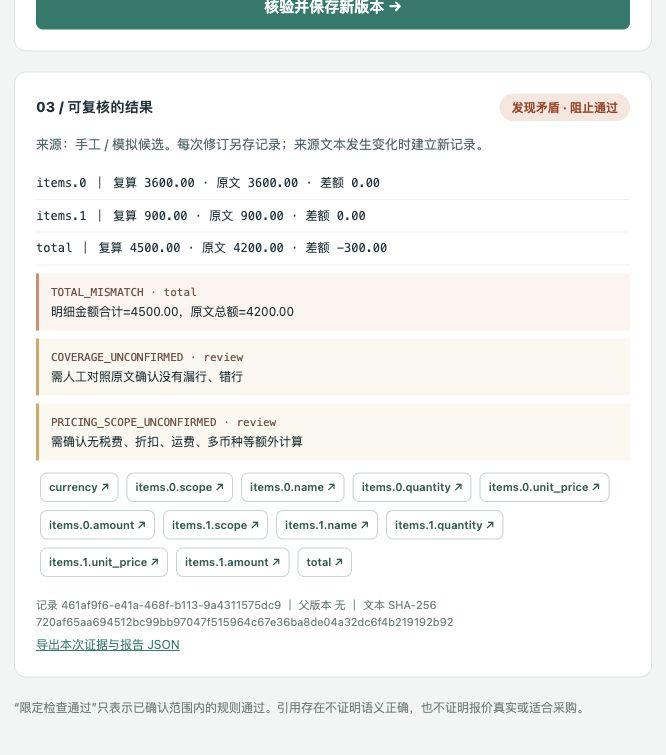
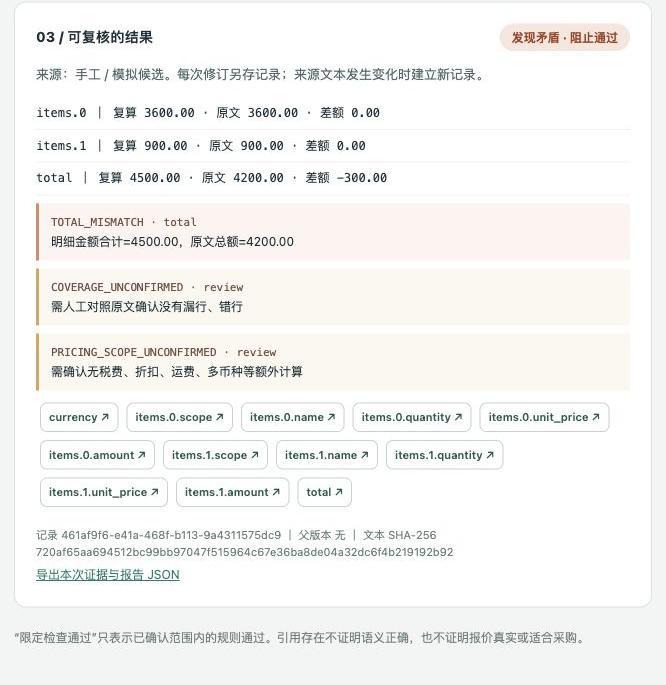
docs: record clean clone and wheel installation checks

diff --git a/docs/validation.md b/docs/validation.md
@@ -56,3 +56,11 @@
 ## 独立复现入口
 
 安装后先运行 `python -m pytest -q` 和 `python scripts/evaluate.py`，再打开本地页面的三个场景。若验证真实AI，按operations.md启动本地模型、指定正确端口，再运行live_smoke；每次输出可能不同，逐字段对照原文。下载JSON后用replay复算。先读本机结果与限制，再决定可以在简历中写哪些个人已验收的能力。
+
+## 干净克隆与软件包补充验证
+
+对本地提交 `0971a1b` 执行 `git clone --no-local . .local/clone-check`，另建全新venv，安装该克隆的`.[dev]`：**55 passed / 1 warning**，8/8合成规则结果符合预期，wheel/sdist实际构建成功。随后在该新环境卸载editable安装、安装构建的wheel，并从克隆目录之外导入，确认模块来自site-packages；内置HTML/JS、demo读取和API创建待复核记录均通过。
+
+这是**本地干净克隆和安装验收**，不是GitHub公开clone或Windows验收。后续改动仅为验证记录和演示截图裁切；运行代码对应上述提交及之前代码提交。临时测试环境和原始日志留在被忽略的`.local`。
+
+Docker测试项目`linescope-review`验证结束后已停止其app容器，保留命名卷和现有Docker Desktop；本机原生服务8765与项目专用Ollama11435保留供检查。官方Docker DMG测试挂载已正常卸载，下载文件保留。
